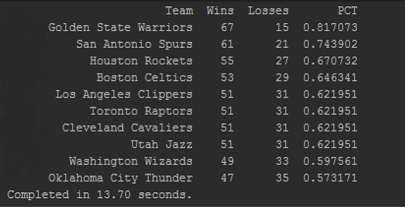
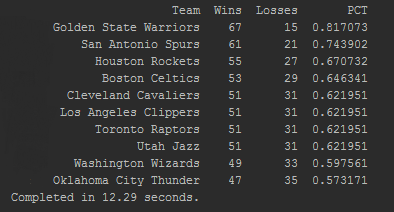
adding secondary sort to sanity check

diff --git a/main.py b/main.py
@@ -140,7 +140,7 @@ df.to_csv('result.csv')
 # Sanity check
 
 wins = df[['Team', 'Wins', 'GP', 'PCT']][df['GP'] == 82]
-wins.sort_values('PCT', ascending=0, inplace=True)
+wins.sort_values(['PCT','Team'], ascending=[0, 1], inplace=True)
 wins['Losses'] = wins['GP']-wins['Wins']
 check = wins[['Team', 'Wins', 'Losses', 'PCT']]
 
